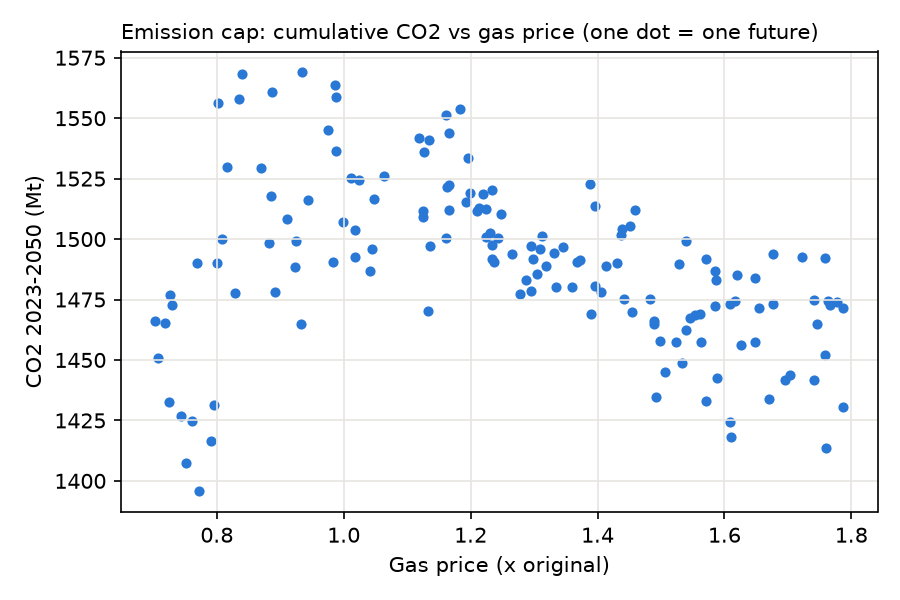
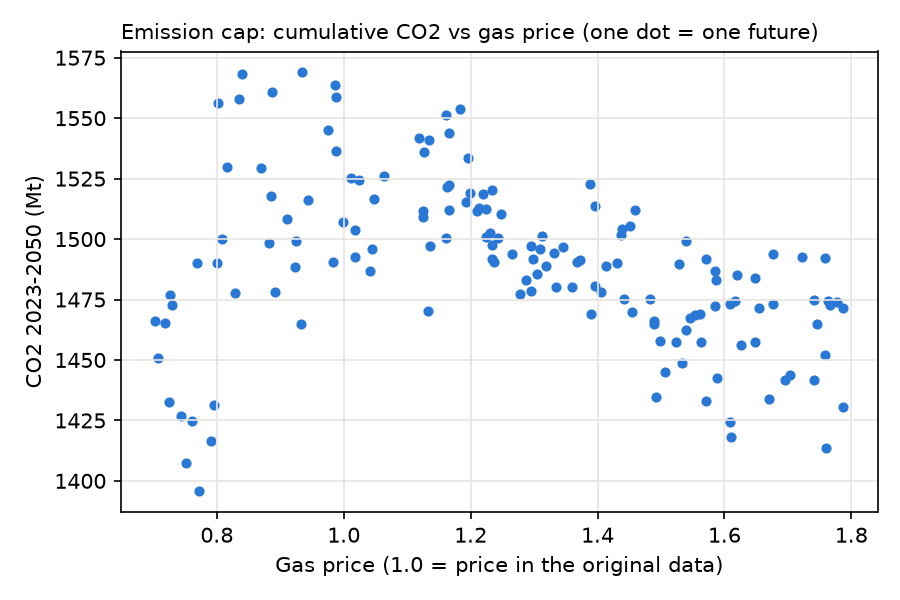
figures updated

Changed region(s): [[0.3111, 0.93, 0.8089, 0.96]]

diff --git a/analyse.py b/analyse.py
@@ -119,7 +119,7 @@ print(drivers.to_string(index=False))
 fig, ax = plt.subplots(figsize=(6, 4))
 data = ok[ok["policy"] == "cap"]
 ax.scatter(data["gas_price"], data["co2_total"], s=15, color=COLOURS["cap"])
-ax.set_xlabel("Gas price")
+ax.set_xlabel("Gas price (1.0 = price in the original data)")
 ax.set_ylabel("CO2 2023-2050 (Mt)")
 ax.set_title("Emission cap: cumulative CO2 vs gas price (one dot = one future)", loc="left", fontsize=10)
 ax.grid(color="#e6e5e1")

diff --git a/README.md b/README.md
@@ -1,7 +1,7 @@
 # Climate policy under uncertainty in an OSeMOSYS model of Poland
 
 **Question.** Poland's power system can be pushed towards zero emissions with an emission cap or with a carbon
-price. How do the two policies behave when the future is uncertain, and which uncertainty have the most impact?
+price. How do the two policies behave when the future is uncertain, and which uncertainty has the most impact?
 
 **Method.**
 1. Take an existing OSeMOSYS model of the Polish power system (built in MUIO, 2023-2050, electricity only).
@@ -47,7 +47,7 @@ output/                     summary.csv, drivers.csv and three figures
 2. Find `glpsol.exe` and `cbc.exe` inside the MUIO folder and write their full paths at the top of
    `run_experiment.py` (`GLPSOL = r"C:\...\glpsol.exe"`, `CBC = r"C:\...\cbc.exe"`).
    On Mac/Linux you can install them instead (`brew install glpk cbc`) and leave `"glpsol"` and `"cbc"`.
-3. "Calibration check": `python run_experiment.py check` must print 133000.64811 twice (the MUIO objective of the original case).
+3. "Reproduction check": `python run_experiment.py check` must print 133000.64811 twice (the MUIO objective of the original case).
 4. `python run_experiment.py` solves the 300 runs and writes `results.csv`.
 5. `python analyse.py` writes the tables and figures to `output/`.
 
@@ -63,11 +63,11 @@ output/                     summary.csv, drivers.csv and three figures
 
 * The cap always reaches zero in 2050, but emissions
   stay high until the 2030s. The price cuts emissions to about 19 Mt by 2030 and cumulative emissions by about 45 %, but never reaches zero.
-* New nuclear appears only with the cap, to reach exactly zero in 2050. It is built mostly after 2045
+* New nuclear appears only with the cap, to reach exactly zero in 2050. It is built mostly after 2045;
   part of this is an end-of-horizon effect of the model.
 * Demand is the main driver of nuclear, gas and cost under both policies.
 * The random forest is needed where the model has thresholds. Under the cap, cumulative CO2 depends on the gas
-  price when it is 20% cheaper because cheap gas replaces coal earlier. A linear regression explains 15 % of it,
+  price, when it is 20% cheaper than in the original data it replaces coal earlier and cumulative CO2 drops. A linear regression explains 15 % of this,
   the random forest 73 %. Under the price policy, new nuclear is only built when gas is expensive (linear 48 %,
   forest 90 %). Where the effect is close to a straight line (cost), both do equally well.
 
@@ -83,7 +83,7 @@ after 150 futures, it is not visible by eye which uncertainty causes what, becau
 change at the same time. A random forest learns the link between the uncertain inputs and each
 result, and permutation importance shows which input matters most.
 
-Before trusting it, the random forest is tested using 2 on futures it has not seen. It predicts the solver's results well (R2 0.73 to 0.98). This becomes useful for larger models. A multi-region model with hourly detail, can take hours per run, so thousands of scenarios cannot
+Before trusting it, the random forest is tested with 5-fold cross-validation on futures it has not seen. It predicts the solver's results well (R2 0.73 to 0.98). This becomes useful for larger models. A multi-region model with hourly detail, can take hours per run, so thousands of scenarios cannot
 be solved. A model like this random forest, trained on a few hundred real runs, could then predict the results of new scenarios in a shorter time. Two limits apply: it can only be
 trusted inside the ranges it was trained on, and it must always be checked against real runs.
 
@@ -95,6 +95,7 @@ trusted inside the ranges it was trained on, and it must always be checked again
 
 ## Ethics and attribution
 
-- The OSeMOSYS model of Poland (`model/data_poland.txt`) was built by [Emilia Ramos Hidalgo, Sonali Sonali, Rose Capistrant, Mia Reichow]. It is used here with the agreement of my co-authors. 
+- The OSeMOSYS model of Poland (`model/data_poland.txt`) was built by Emilia Ramos Hidalgo, Sonali Sonali, Rose Capistrant and Mia Reichow. It is used here with the agreement of my co-authors.
+- The work in this repository is my own.
 - The code was written with the help of an AI assistant (Claude).
 - The OSeMOSYS model file is the one distributed with MUIO v5.3 (open source, Apache 2.0 licence).
